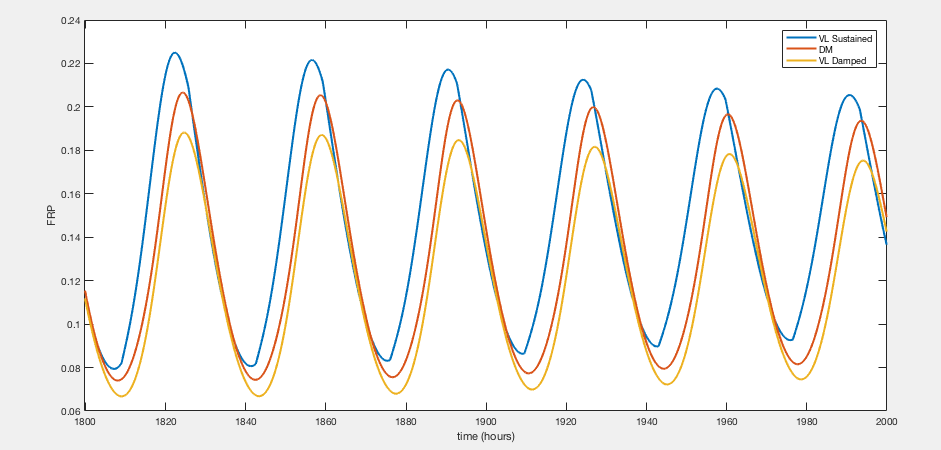
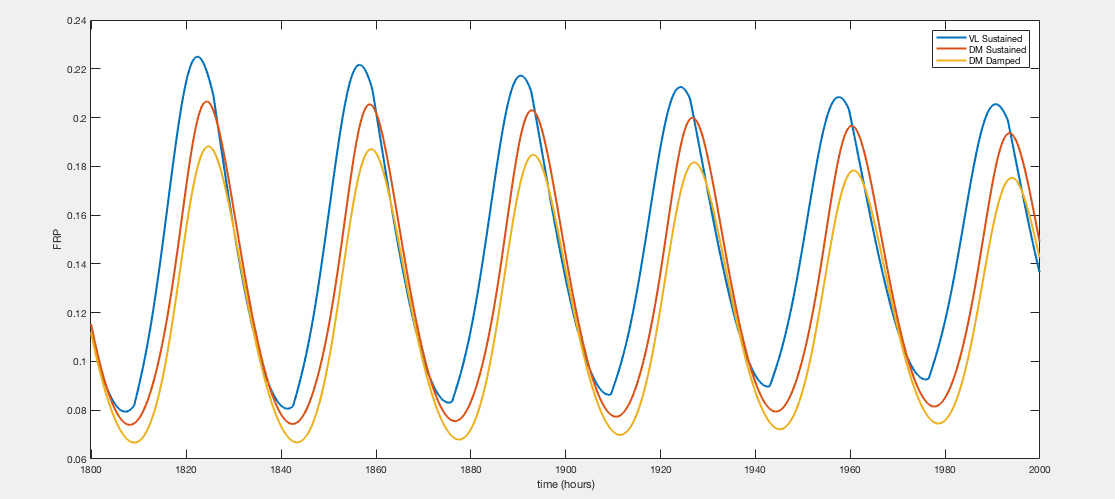
update fig2c

diff --git a/goodwin_model_fig2/fig2c_main.m b/goodwin_model_fig2/fig2c_main.m
@@ -65,4 +65,4 @@ plot( t(18000:20000), p_dm_mean_sustained,'LineWidth',2);
 plot( t(18000:20000), p_dm_mean_damped,'LineWidth',2);
 xlabel('time (hours)');
 ylabel('FRP');
-legend('VL Sustained','DM', 'VL Damped');
+legend('VL Sustained','DM Sustained', 'DM Damped');
